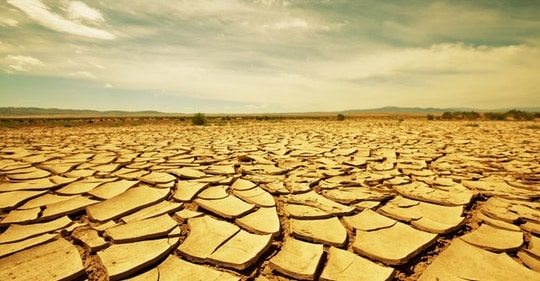
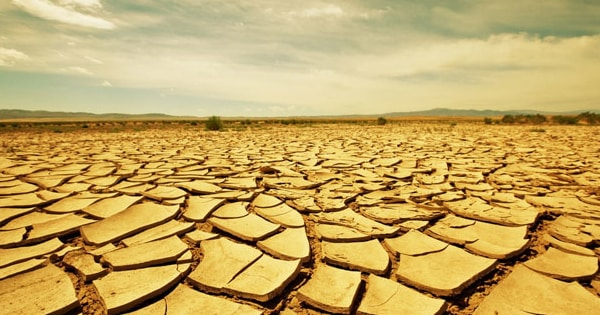
another round of facebook tweaks

diff --git a/site/content/episode/001-Ruth-1.md b/site/content/episode/001-Ruth-1.md
@@ -5,7 +5,7 @@ PublishDate = 2018-08-13T20:00:00-07:00 # this is the datetime for the when the 
 podcast_file = "001-Ruth-1.mp3" # the name of the podcast file, after the media prefix.
 podcast_duration = "01:09:51" # duration of the episode in HH:MM:SS format
 podcast_bytes = "33534455" # the length of the episode in bytes
-episode_image = "img/episodes/famine-thumb.jpg"
+episode_image = "img/episodes/drought-thumb.jpg"
 #episode_banner = ""
 #guests = [] # The names of your guests, based on the filename without extension.
 #sponsors = []
@@ -13,7 +13,7 @@ episode = "1"
 # season = "1"
 title = "001 Ruth 1:1-5"
 subtitle = "Exiled and out of grace."
-images = ["img/episodes/famine-og.jpg"]
+images = ["img/episodes/drought-og.jpg"]
 hosts = ["Kevin Hammer"] # The names of your hosts, based on the filename without extension.
 #aliases = ["/##"]
 #youtube = ""
